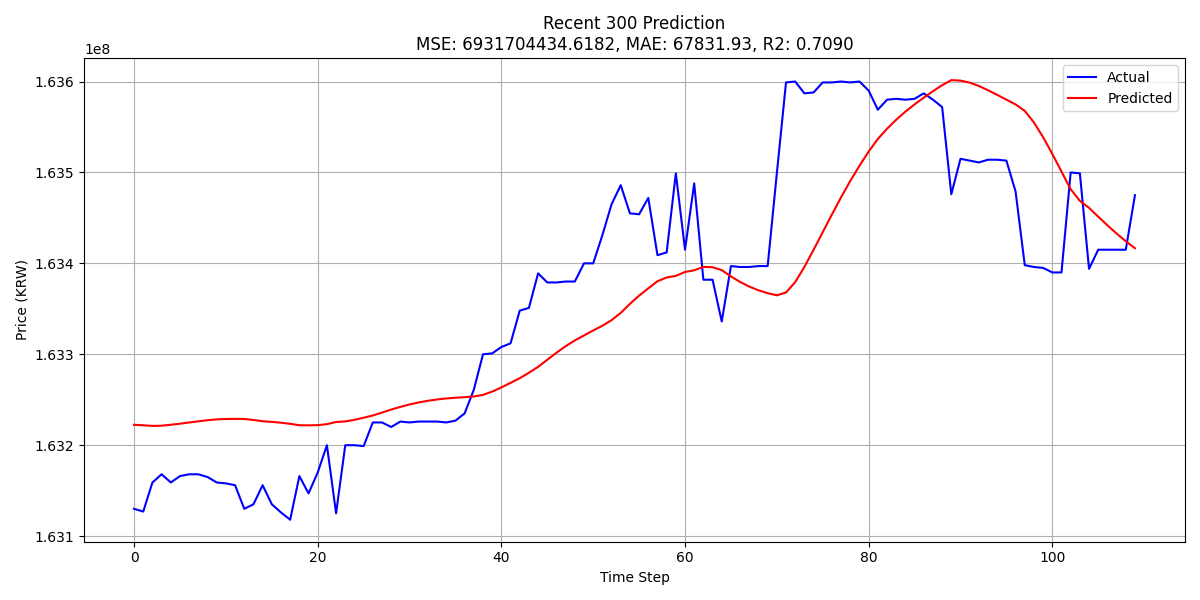
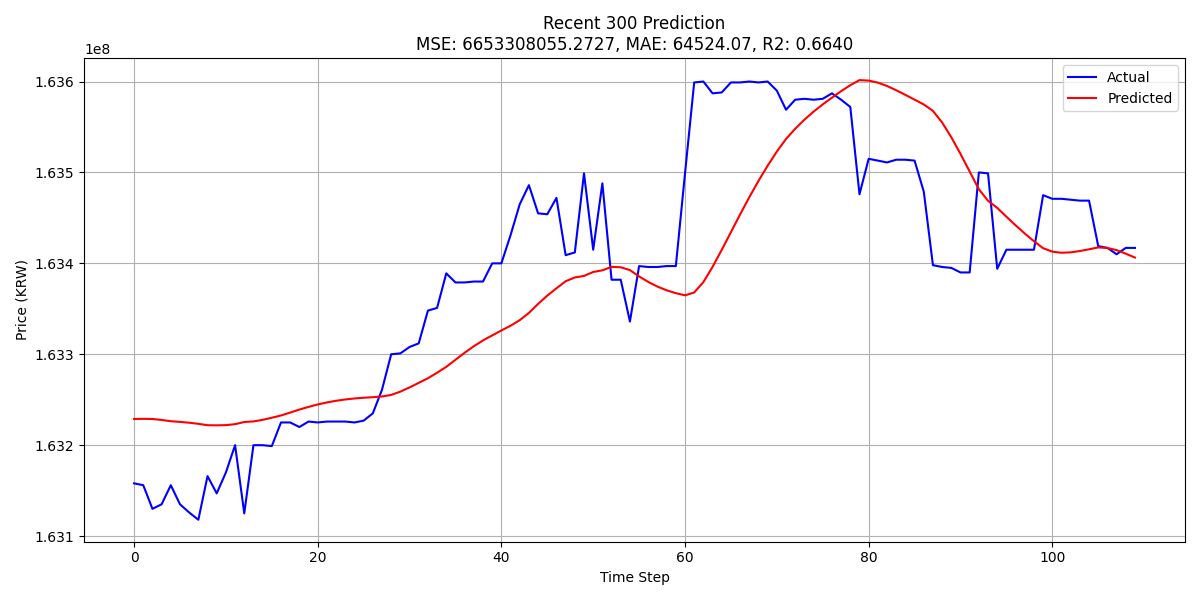
[feat] LSTM 훈련하는 코드 리팩토링

diff --git a/scripts/train_lstm.py b/scripts/train_lstm.py
@@ -1,4 +1,6 @@
 # train_lstm.py
+import json
+import os
 import torch
 import numpy as np
 import pandas as pd
@@ -11,11 +13,11 @@ from scripts.config_lstm import SEQ_LEN, HIDDEN_SIZE, NUM_LAYERS, LR, EPOCHS, CO
 import matplotlib.pyplot as plt
 from sklearn.metrics import mean_squared_error, mean_absolute_error, r2_score
 
-def make_sequences(data, seq_len=60):
+def make_sequences(data, seq_len):
     x, y = [], []
     for i in range(len(data) - seq_len):
         x.append(data[i:i+seq_len])
-        y.append(data[i+seq_len])
+        y.append(data[i+seq_len][0])  # 종가만 예측
     return np.array(x), np.array(y)
 
 
@@ -24,12 +26,21 @@ def train_lstm():
     if df is None or len(df) < SEQ_LEN:
         print("📉 데이터 부족. 최소 시퀀스 길이보다 작음.")
         return
+    # 멀티 피처 확장 여부 판단
+    if INPUT_SIZE == 4:
+        df = df[['timestamp', 'open', 'high', 'low', 'close', 'volume']]
+        features = df[['close', 'volume', 'high', 'low']].values
+    else:
+        df = df[['timestamp', 'close']]
+        features = df[['close']].values
 
-    close = df['close'].values.reshape(-1, 1)
+    # close = df['close'].values.reshape(-1, 1)
     scaler = MinMaxScaler()
-    scaled = scaler.fit_transform(close)
+    # scaled = scaler.fit_transform(close)
+    scaled = scaler.fit_transform(features)
 
-    x_data, y_data = make_sequences(scaled, seq_len=SEQ_LEN)
+
+    x_data, y_data = make_sequences(scaled, SEQ_LEN)
     x_tensor = torch.tensor(x_data).float()
     y_tensor = torch.tensor(y_data).float().unsqueeze(1)
 
@@ -55,11 +66,46 @@ def train_lstm():
         losses.append(loss.item())
         print(f"Epoch {epoch+1}, Loss: {loss.item():.6f}")
 
-    torch.save({
-        "model_state_dict": model.state_dict()
-    }, MODEL_PATH)
-    joblib.dump(scaler, SCALER_PATH)
-    print("✅ 모델 및 스케일러 저장 완료")
+    model.eval()
+    with torch.no_grad():
+        preds = model(x_tensor).numpy()
+        y_true = y_tensor.numpy()
+
+        if INPUT_SIZE == 4:
+            preds_inv = scaler.inverse_transform(np.hstack([preds, np.zeros((len(preds), 3))]))[:, 0]
+            y_inv = scaler.inverse_transform(np.hstack([y_true, np.zeros((len(y_true), 3))]))[:, 0]
+        else:
+            preds_inv = scaler.inverse_transform(preds)[:, 0]
+            y_inv = scaler.inverse_transform(y_true)[:, 0]
+
+    mse = mean_squared_error(y_inv, preds_inv)
+    mae = mean_absolute_error(y_inv, preds_inv)
+    r2 = r2_score(y_inv, preds_inv)
+
+    print(f"\n📊 Evaluation - MSE: {mse:.4f}, MAE: {mae:.2f}, R2: {r2:.4f}")
+
+    save_dir = "best_model"
+    os.makedirs(save_dir, exist_ok=True)
+
+    torch.save({"model_state_dict": model.state_dict()}, os.path.join(save_dir, "model.pt"))
+    joblib.dump(scaler, os.path.join(save_dir, "scaler.pkl"))
+
+    with open(os.path.join(save_dir, "model_info.json"), "w") as f:
+        json.dump({
+            "mse": float(mse),
+            "mae": float(mae),
+            "r2": float(r2),
+            "seq_len": SEQ_LEN,
+            "hidden_size": HIDDEN_SIZE,
+            "num_layers": NUM_LAYERS,
+            "epochs": EPOCHS,
+            "lr": LR,
+            "input_size": INPUT_SIZE,
+            "output_size": OUTPUT_SIZE,
+            "count": COUNT
+        }, f, indent=4)
+    
+    print(f" 모델 저장 완료: {save_dir}")
     
     # 손실 그래프 저장
     plt.figure(figsize=(10, 5))                  # 그래프 사이즈 지정 (선택)
@@ -73,24 +119,41 @@ def train_lstm():
     plt.savefig("lstm_loss.png", dpi=150)         #  해상도 업
     print("📉 Loss 그래프 저장 완료: lstm_loss.png")
     
-     # 예측 결과 및 지표 계산
-    model.eval()
-    with torch.no_grad():
-        predicted = model(x_tensor).numpy()
-        predicted_prices = scaler.inverse_transform(predicted)
-        y_np = y_tensor.squeeze(1).numpy()
-        real_prices = scaler.inverse_transform(y_np.reshape(-1, 1))
+    #  # 예측 결과 및 지표 계산
+    # model.eval()
+    # with torch.no_grad():
+    #     predicted = model(x_tensor).numpy()
+    #     predicted_prices = scaler.inverse_transform(predicted)
+    #     y_np = y_tensor.squeeze(1).numpy()
+    #     real_prices = scaler.inverse_transform(y_np.reshape(-1, 1))
 
-    mse = mean_squared_error(real_prices, predicted_prices)
-    mae = mean_absolute_error(real_prices, predicted_prices)
-    r2 = r2_score(real_prices, predicted_prices)
+    # mse = mean_squared_error(real_prices, predicted_prices)
+    # mae = mean_absolute_error(real_prices, predicted_prices)
+    # r2 = r2_score(real_prices, predicted_prices)
 
-    print(f" MSE: {mse:.4f}, MAE: {mae:.4f}, R2: {r2:.4f}")
+    # print(f" MSE: {mse:.4f}, MAE: {mae:.4f}, R2: {r2:.4f}")
+    
+    info = {
+    "mse": float(mse),
+    "mae": float(mae),
+    "r2": float(r2),
+    "seq_len": SEQ_LEN,
+    "hidden_size": HIDDEN_SIZE,
+    "num_layers": NUM_LAYERS,
+    "epochs": EPOCHS,
+    "lr": LR,
+    "input_size": INPUT_SIZE,
+    "output_size": OUTPUT_SIZE,
+    "count": COUNT
+    }
+    with open("model_info.json", "w") as f:
+        json.dump(info, f, indent=4)
+
 
     # 예측 그래프 저장
     plt.figure(figsize=(12, 6))
-    plt.plot(real_prices, label="Actual Price", color="blue")
-    plt.plot(predicted_prices, label="Predicted Price", color="red")
+    plt.plot(y_inv, label="Actual", color="blue")
+    plt.plot(preds_inv, label="Predicted", color="red")
     plt.title("LSTM Prediction vs Actual")
     plt.xlabel("Time Step")
     plt.ylabel("Price (KRW)")
